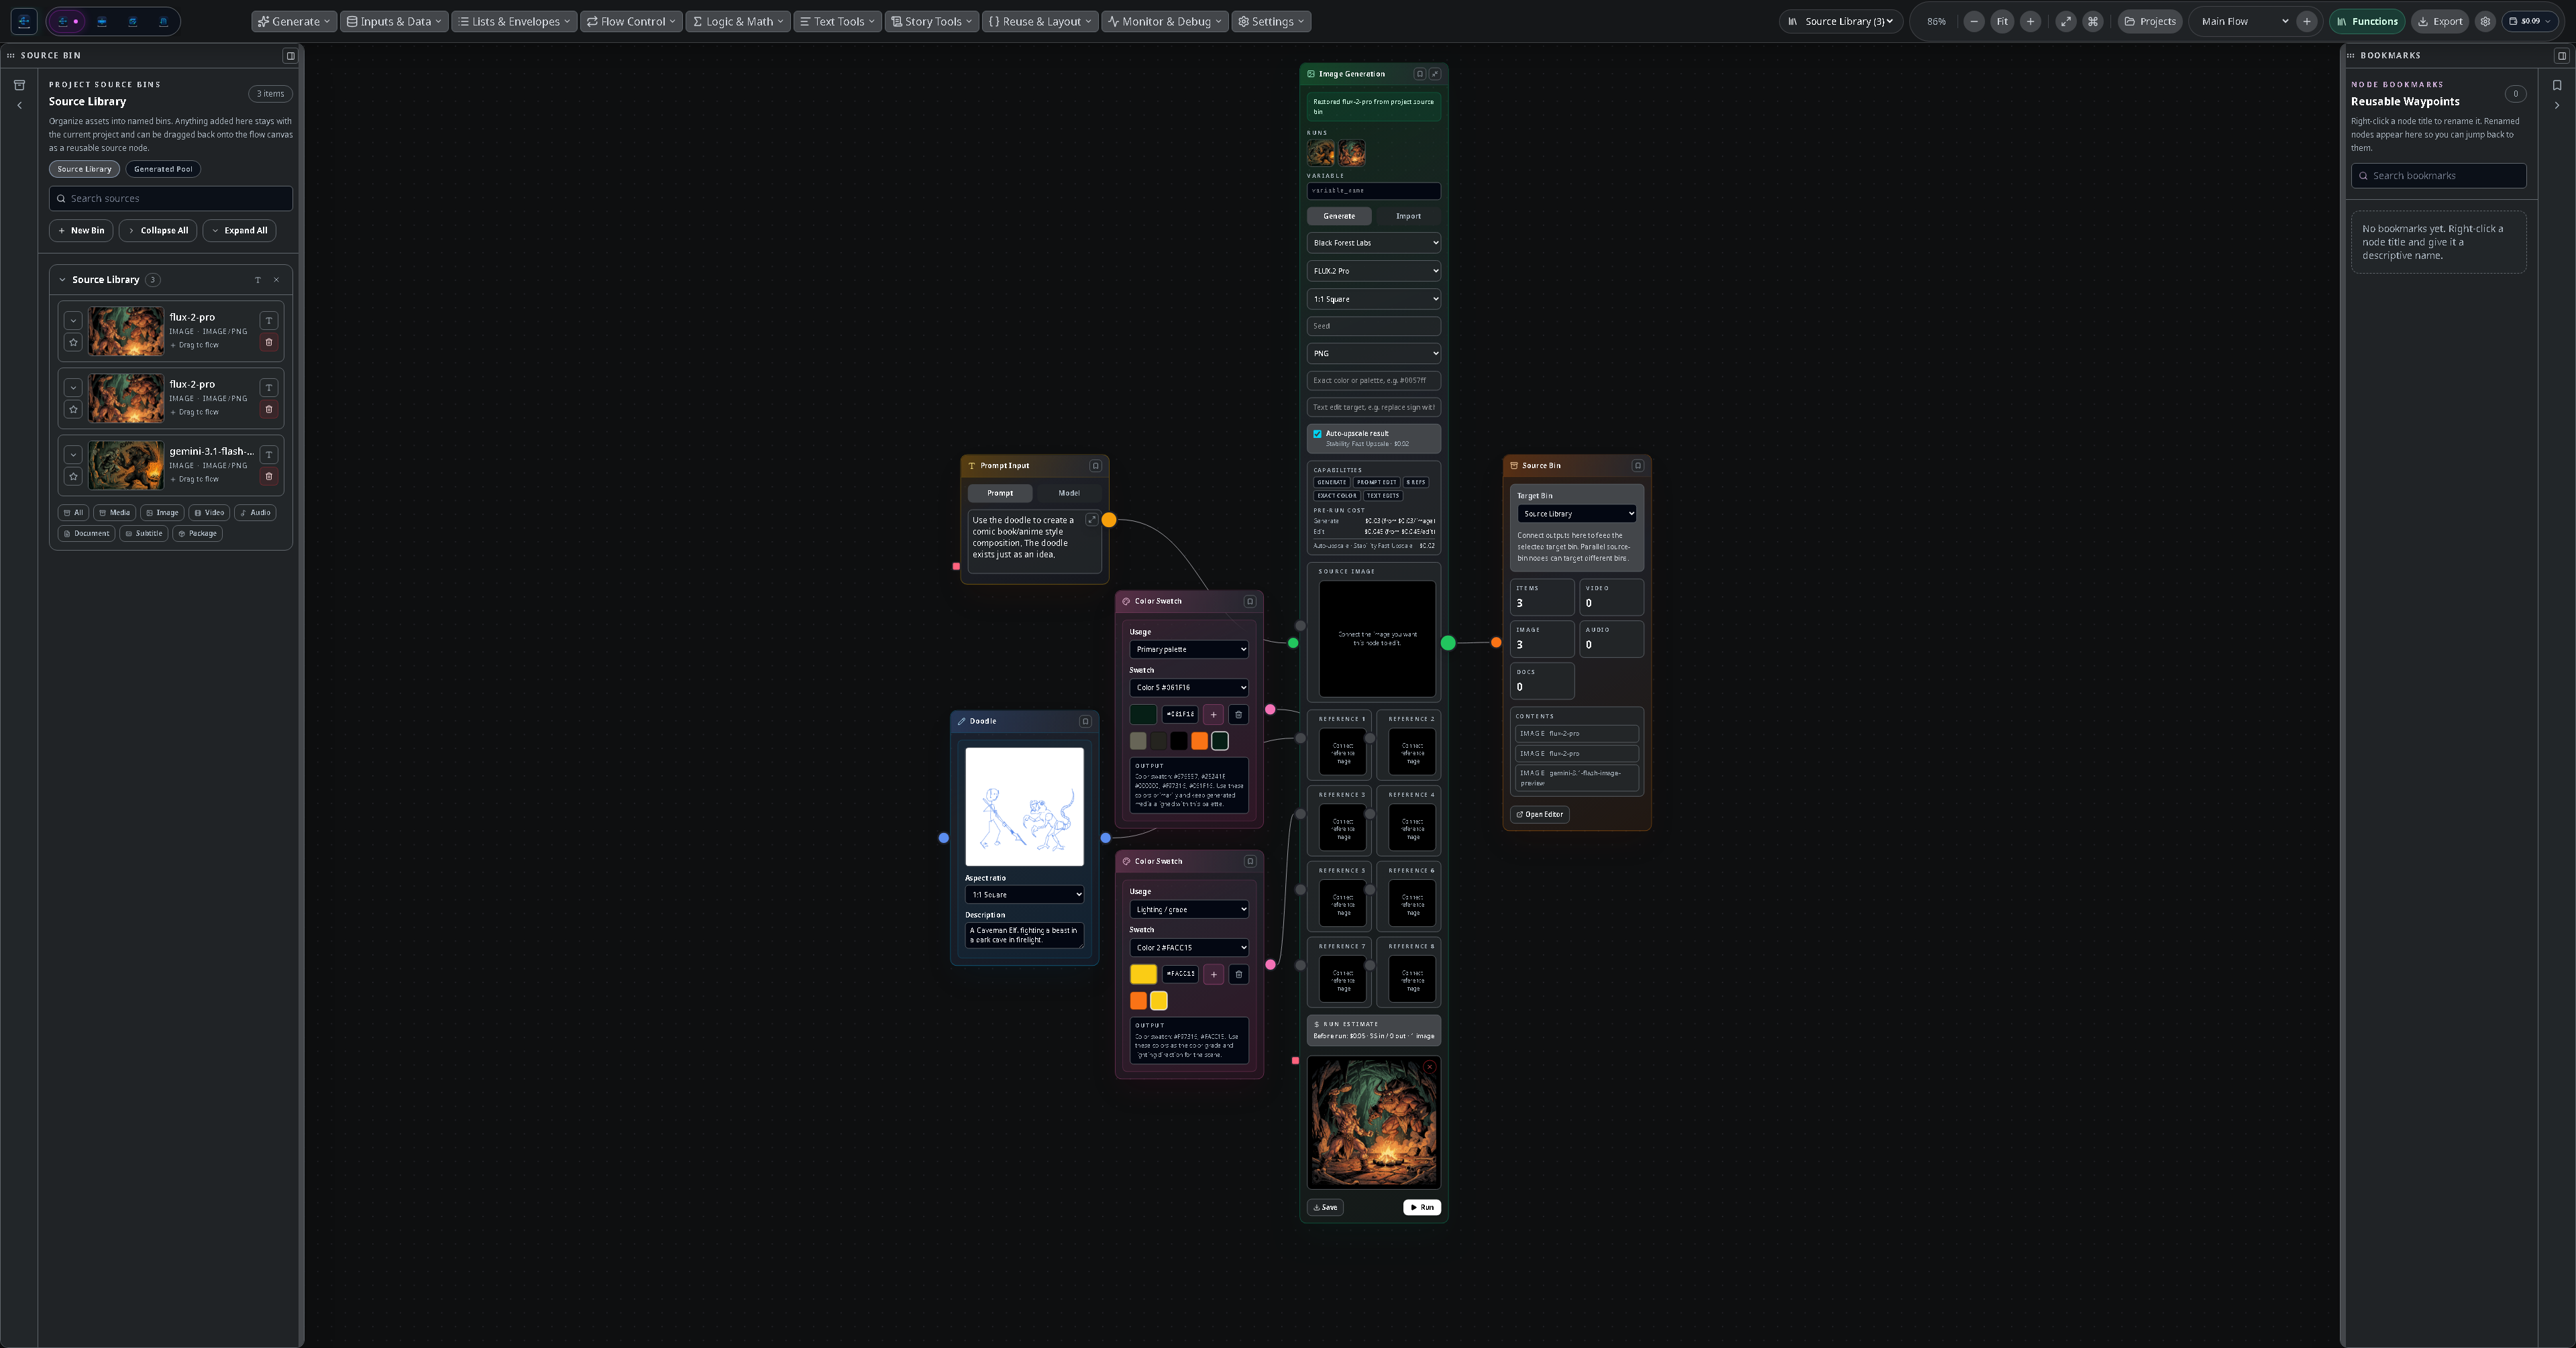
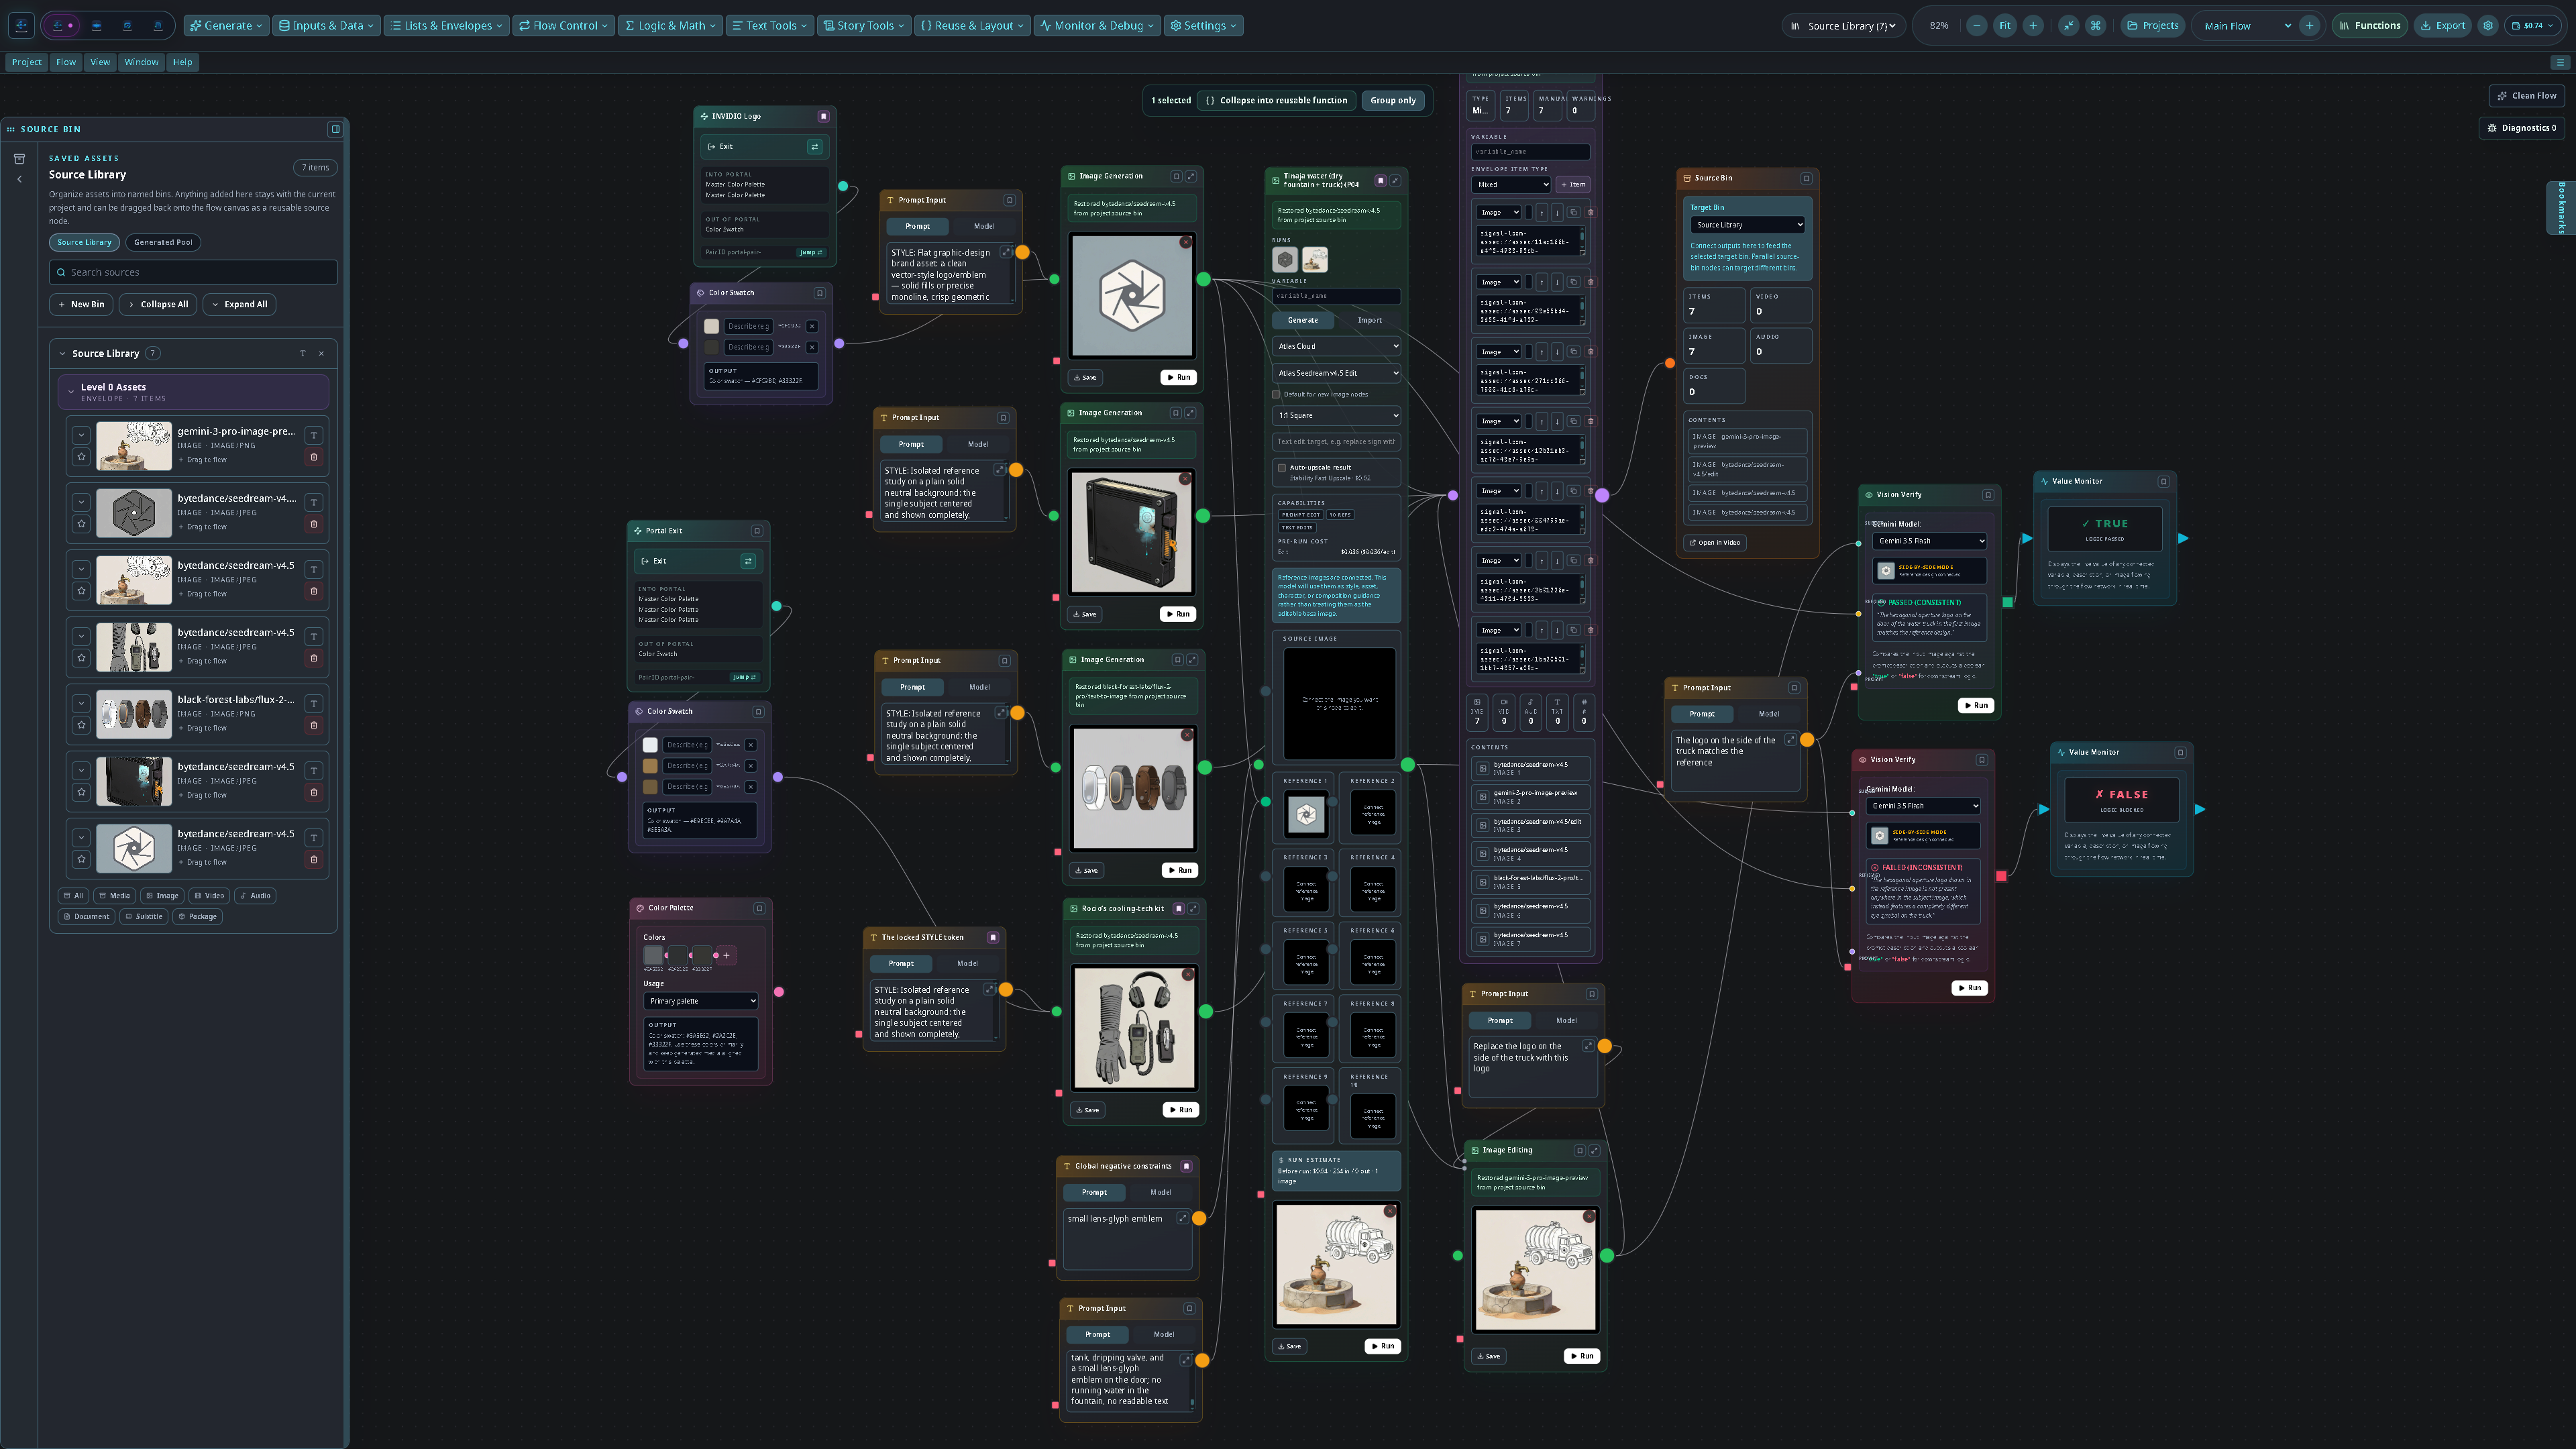
docs: feature the Flow brand-pipeline showcase (README + sloom.studio)
New Flow workspace screenshot showing a multi-provider brand-asset pipeline — prompt/colour nodes into Image Generation across Atlas (Seedream), BytePlus (bytedance/seedream), Google (gemini-3-pro-image) and Black Forest Labs (FLUX); Asset Package + Source Library; Portals for shared tokens; two Vision Verify nodes (Gemini) returning TRUE/FALSE into Value Monitors; and several collapsed nodes with edges still wired. README Flow figcaption rewritten to describe it; sloom.studio hero image swapped + Flow tab copy enriched.

Claude-Session: https://claude.ai/code/session_01BkHp1QyX5feK8uVgXL1Dte

Changed region(s): [[0.0, 0.0, 0.875, 1.0], [0.6875, 0.0, 1.0, 0.2159], [0.9688, 0.1234, 1.0, 0.1851]]

diff --git a/docs/release/website/sloom-studio/index.html b/docs/release/website/sloom-studio/index.html
@@ -261,8 +261,8 @@
   <div class="station">
     <div class="tabs" role="tablist" aria-label="Workspaces">
       <button class="tab" role="tab" aria-selected="true" data-shot="tablet-01-flow-node-graph" data-accent="#34d9ff"
-        data-title="Flow" data-chips="Node graphs|Run-cost tracking|Shared library"
-        data-desc="Wire prompts, image, video, audio &amp; composition nodes; track cost per run.">
+        data-title="Flow" data-chips="Multi-provider generation|Vision-Verify QA|Collapsible nodes + portals"
+        data-desc="Wire prompt, colour &amp; multi-provider image/video nodes into asset packages and a shared library; QA results with Vision Verify (TRUE/FALSE); collapse nodes to declutter while every edge stays wired.">
         <span class="k">F</span><span><span class="n">Flow</span><span class="d">Node-based generation graphs</span></span></button>
       <button class="tab" role="tab" aria-selected="false" data-shot="tablet-02-image-editor" data-accent="#ff45b1"
         data-title="Image" data-chips="Layers + masks|Generative fill|Region tools"

diff --git a/README.md b/README.md
@@ -23,8 +23,8 @@ The app runs in a normal browser through Vite, ships as an Electron desktop app 
 </figure>
 
 <figure>
-  <img src="docs/assets/signal-loom-flow.png" alt="Signal Loom flow workspace showing connected generation nodes, the persistent source bin, provider telemetry, and a composition node." />
-  <figcaption><strong>Flow workspace.</strong> Build reusable generation graphs with prompt, image, video, source-bin, and composition nodes while tracking run cost and keeping generated assets in the project library.</figcaption>
+  <img src="docs/assets/signal-loom-flow.png" alt="Signal Loom Flow workspace: a multi-provider brand-asset pipeline with prompt, colour, image-generation, asset-package, source-bin, portal, and Vision Verify nodes, several collapsed to their minimal size." />
+  <figcaption><strong>Flow workspace — a multi-provider brand-asset pipeline.</strong> <strong>Prompt Input</strong> and <strong>Color Palette / Color Swatch</strong> nodes drive a row of <strong>Image Generation</strong> nodes, each on a different provider — <strong>Atlas</strong> (Seedream v4.5), <strong>BytePlus</strong> (bytedance/seedream), <strong>Google</strong> (gemini-3-pro-image), and <strong>Black Forest Labs</strong> (FLUX) — rendering product shots that collect into an <strong>Asset Package</strong> and land in the shared <strong>Source Library</strong> via a <strong>Source Bin</strong> node as reusable assets. <strong>Portals</strong> carry shared style + colour tokens across the graph without redrawing edges. Two <strong>Vision Verify</strong> nodes run a vision model (Gemini) to QA each result against the reference — one returns ✓&nbsp;TRUE (logo consistent), the other ✗&nbsp;FALSE (inconsistent) — feeding <strong>Value Monitor</strong> nodes for pass/fail gating. Several nodes are <strong>collapsed to their minimal size</strong> to keep the canvas readable while every connection stays wired.</figcaption>
 </figure>
 
 <figure>